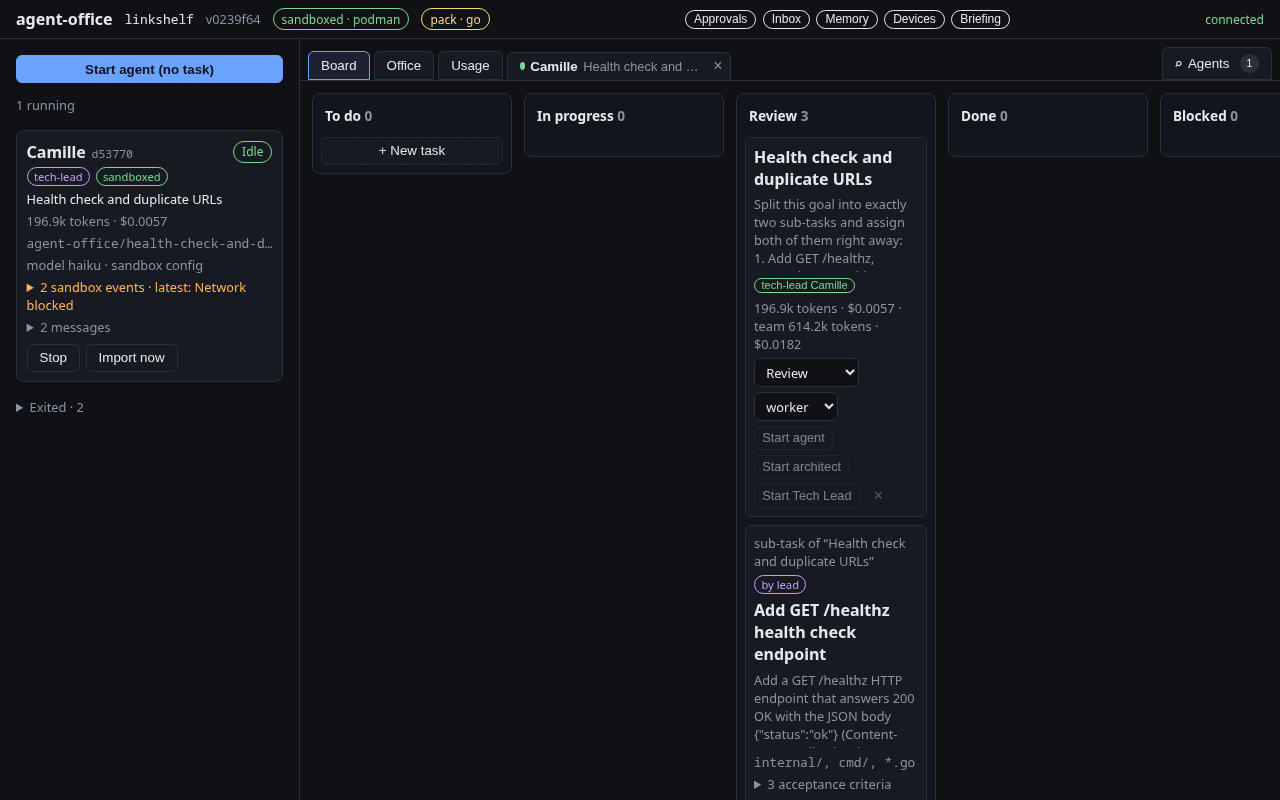
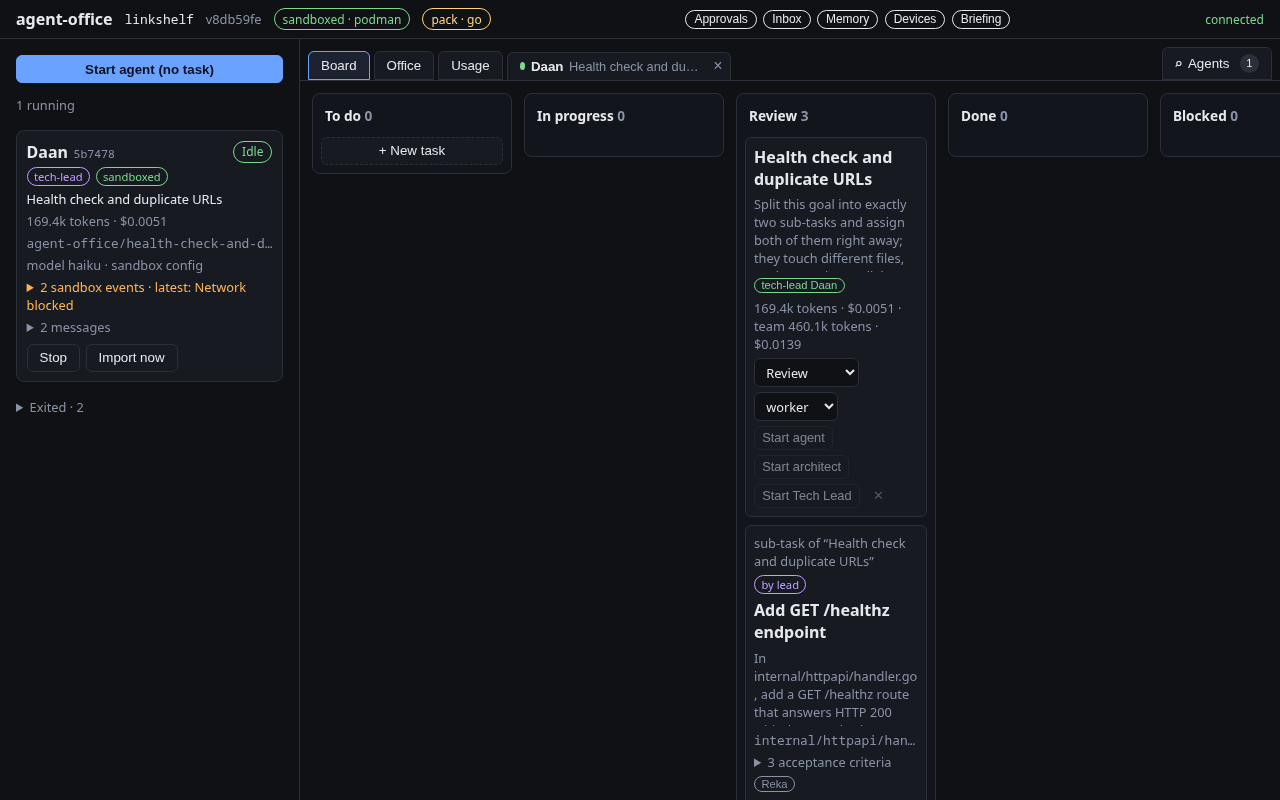
docs: demo GIF re-recorded with two workers in parallel
The goal's sub-tasks now touch different packages, so both workers run at
once; README, screenshots, demo notes and the progress log follow. Frames
across the GIF and every still were checked for local paths and personal
data.

diff --git a/README.md b/README.md
@@ -9,11 +9,12 @@ waiting for you, reporting at the Tech Lead's whiteboard or taking a coffee. Wor
 requests and anything risky stays behind deterministic checks and your approval. It is a single Go
 binary with the UI embedded, Linux-first.
 
-![A real run: the goal goes on the board, a Tech Lead splits it, sandboxed workers walk in, implement the sub-tasks, report at the whiteboard and leave](docs/screenshots/team-run.gif)
+![A real run: the goal goes on the board, a Tech Lead splits it, two sandboxed workers walk in, implement the sub-tasks in parallel, report at the whiteboard and leave](docs/screenshots/team-run.gif)
 
-<sub>A real, unedited run at about 3× speed (`make demo`): a haiku Tech Lead and two sandboxed
-haiku workers add two features to a small Go service in 107 seconds, for about two cents. The
-lead ran the sub-tasks one after the other because both touch the same handler file (ADR 0032).</sub>
+<sub>A real, unedited run at about 2× speed (`make demo`): a haiku Tech Lead and two sandboxed
+haiku workers add two features to a small Go service in parallel, in 50 seconds, for under two
+cents. The two sub-tasks touch different packages, so file ownership (ADR 0032) lets both run at
+once.</sub>
 
 ## What it does
 
@@ -46,14 +47,14 @@ lead ran the sub-tasks one after the other because both touch the same handler f
   ([ADR 0045](docs/adr/0045-office-floor-plan-and-errands.md)).
 
 <p align="center">
-  <img src="docs/screenshots/board-team-run.png" alt="The board after the run: goal and sub-tasks in review, with cost per task and a conflict between the two branches" width="49%">
+  <img src="docs/screenshots/board-team-run.png" alt="The board after the run: goal and sub-tasks in review, with tokens and cost per task and for the team" width="49%">
   <img src="docs/screenshots/usage-team-run.png" alt="The Usage tab after the run: tokens and estimated cost by task" width="49%">
 </p>
 <p align="center">
   <img src="docs/screenshots/office.png" alt="The Office: a worker reports at the Tech Lead's whiteboard, a reviewer reads at the review room table, idle agents drink coffee in the kitchen, a new agent walks in through the front door, and the workroom shows agents typing and waiting with raised hands" width="80%">
 </p>
 <p align="center">
-  <img src="docs/screenshots/office-live-team.png" alt="A real run in the Office: a sandboxed worker reports at the Tech Lead's whiteboard while the next worker walks in through the kitchen door" width="62%">
+  <img src="docs/screenshots/office-live-team.png" alt="A real run in the Office: one sandboxed worker reports at the Tech Lead's whiteboard while the other keeps typing at its desk" width="62%">
   <img src="docs/screenshots/office-phone.png" alt="The Office on a phone: the rooms stacked above the workroom" width="17%">
 </p>
 

diff --git a/docs/screenshots/README.md b/docs/screenshots/README.md
@@ -4,10 +4,10 @@ Refreshed at the end of Phase 13 (2026-11-09) so every picture shows the current
 
 | File | What it shows |
 |---|---|
-| `team-run.gif` | A real run (`make demo`, [docs/demo.md](../demo.md)): the goal typed into the board, a sandboxed haiku Tech Lead splitting it into two sub-tasks, each sandboxed worker walking in through the kitchen door, implementing its sub-task, reporting at the Tech Lead's whiteboard and walking out, the lead's coffee break and its own report, then the Usage tab. 107 seconds of real time, sped up about 3×; the lead ran the sub-tasks one after the other because both touch the same file (ADR 0032). |
-| `board-team-run.png` | The board at the end of that run: the goal and both sub-tasks in review, with tokens and cost per task and for the team, and the merge-tree conflict check (ADR 0032). |
+| `team-run.gif` | A real run (`make demo`, [docs/demo.md](../demo.md)): the goal typed into the board, the Tech Lead's live terminal for a moment, then the Office: two sandboxed haiku workers walk in through the kitchen door and work in parallel (their sub-tasks touch different packages, so file ownership lets both run, ADR 0032), each reports at the Tech Lead's whiteboard and walks out, the lead reports the goal; then the board and the Usage tab. 66 seconds of video (the goal was reported after 50), sped up about 2×. |
+| `board-team-run.png` | The board at the end of that run: the goal and both sub-tasks in review, with tokens and cost per task and for the team. |
 | `usage-team-run.png` | The Usage tab for that run, by task. |
-| `office-live-team.png` | A still from that run: a worker reports at the whiteboard next to the Tech Lead while the next worker walks in through the kitchen's front door (ADR 0045). |
+| `office-live-team.png` | A still from that run (`office-worker-reporting.png` of `make demo`): one worker reports at the Tech Lead's whiteboard while the other keeps typing at its desk, and its own chair stands empty (ADR 0045). |
 | `office.png` | The Office from the mocked daemon of the UI tests (Phase 13 showcase test): a worker reporting at the whiteboard, a reviewer at the review room's table, three idle agents with coffee in the kitchen, a new agent walking in, a message flying to the Tech Lead, and the workroom with agents typing, waiting for the user (raised hands) and starting. |
 | `office-rooms.png` | Close-up of the rooms in that picture: the Tech Lead's room, the review room and the kitchen. |
 | `office-desks.png` | Close-up of the workroom in that picture: poses, monitors, bubbles, nameplates and empty chairs of agents who are away. |

diff --git a/docs/demo.md b/docs/demo.md
@@ -32,10 +32,10 @@ What it does (`web/demo/record-team-run.ts`, run by Node with Playwright's Chrom
 
 The stills are `office-goal-reported.png`, `board-goal-reported.png` and `usage-team-run.png`,
 plus `office-team-working.png` when two workers work at the same time and
-`office-worker-reporting.png` when the first worker reports. A haiku lead often runs the two
-sub-tasks one after the other (both touch the same handler file, so ADR 0032 makes the second
-depend on the first); then those two are missing, and a frame from the video serves instead
-(`ffmpeg -ss <s> -i team-run.webm -frames:v 1 still.png`).
+`office-worker-reporting.png` when the first worker reports. The goal names the files of each
+sub-task (`internal/httpapi` for the health check, `internal/bookmark` for duplicate URLs), so the
+Tech Lead declares disjoint files and both workers run at once; sub-tasks that share a file are
+run one after the other (ADR 0032), and then the first of those two stills is missing.
 
 Before committing a new GIF or still, look at the stills and at frames across the GIF
 (`ffmpeg -ss <s> -i team-run.gif -frames:v 1 f.png`). Check for local paths, names and anything
@@ -56,7 +56,8 @@ the README's GIF open as a fallback in case the network or the API is slow.
    every time, and that is the risky part. agent-office lets several of them do that, inside a
    sandbox, while you keep the decisions.
 2. **Give the team a goal (1 min).** On the board, add "Health check and duplicate URLs" (the two
-   playground backlog items) and click **Start Tech Lead**. Open the **Office** tab. The lead's
+   playground backlog items, one in `internal/httpapi` and one in `internal/bookmark`, so they can
+   run in parallel; the full text is in `web/demo/record-team-run.ts`) and click **Start Tech Lead**. Open the **Office** tab. The lead's
    whiteboard fills with sub-tasks, workers walk in through the kitchen's front door to their
    desks and start typing, and each one walks to the Tech Lead's whiteboard when it reports, then
    leaves. The idle lead takes a coffee meanwhile (ADR 0045).

diff --git a/PROGRESS.md b/PROGRESS.md
@@ -262,6 +262,13 @@ See [docs/plan.md](docs/plan.md) for goals and Definitions of Done.
   draws nothing. The UI tests found a click race after a tab remount and two grid-change bugs
   during walks (fixed); an independent review led to 5 fixes (a return to the desk never drawn
   with reduced motion, a stuck hover, a fade-in restarting, resumed leavers, the no-route
-  fallback). Showcase refreshed: a new GIF from a real sandboxed haiku team (`make demo`, 107 s,
-  about two cents) and current screenshots. `make check` and `make ui-test` (61) pass; `make e2e`
+  fallback). Showcase refreshed: a new GIF from a real sandboxed haiku team (`make demo`) and current
+  screenshots. `make check` and `make ui-test` (61) pass; `make e2e`
   was not run (daemon, hooks, engine and worktrees unchanged).
+- 2026-11-09: Phase 13, before the merge (Ozan's review): the demo goal now names each sub-task's
+  files (`internal/httpapi` for the health check, `internal/bookmark` for duplicate URLs), so the
+  Tech Lead declares disjoint files and both workers run in parallel; the earlier goal had both
+  edit the handler, and file ownership (ADR 0032) ran them one after the other. GIF re-recorded
+  (goal reported after 50 s instead of 107, under two cents), README, screenshots and the review
+  page updated. The README's inspiration line (jsm-hq, AgentSpace) is removed; the project rules in
+  `CLAUDE.md` still name both as a don't-copy rule.

diff --git a/docs/plans/phase-13.md b/docs/plans/phase-13.md
@@ -189,3 +189,9 @@ None.
   is held while they walk).
 - **Demo recorder.** A still when the first worker reports, and eight seconds in the Office after
   the goal is reported, so the GIF shows the whiteboard and the walk-outs.
+- **Parallel demo (Ozan's review).** Both earlier recordings ran the sub-tasks one after the
+  other: both edited the HTTP handler, so file ownership (ADR 0032) made the second wait. The demo
+  goal now gives each sub-task its own files (the health check in `internal/httpapi`, duplicate
+  URLs rejected in `internal/bookmark` with an error that wraps `ErrInvalid`, which the API
+  already answers with 422), and the re-recorded GIF shows both workers at once.
+- **Inspiration line removed** from the README (Ozan's review).
